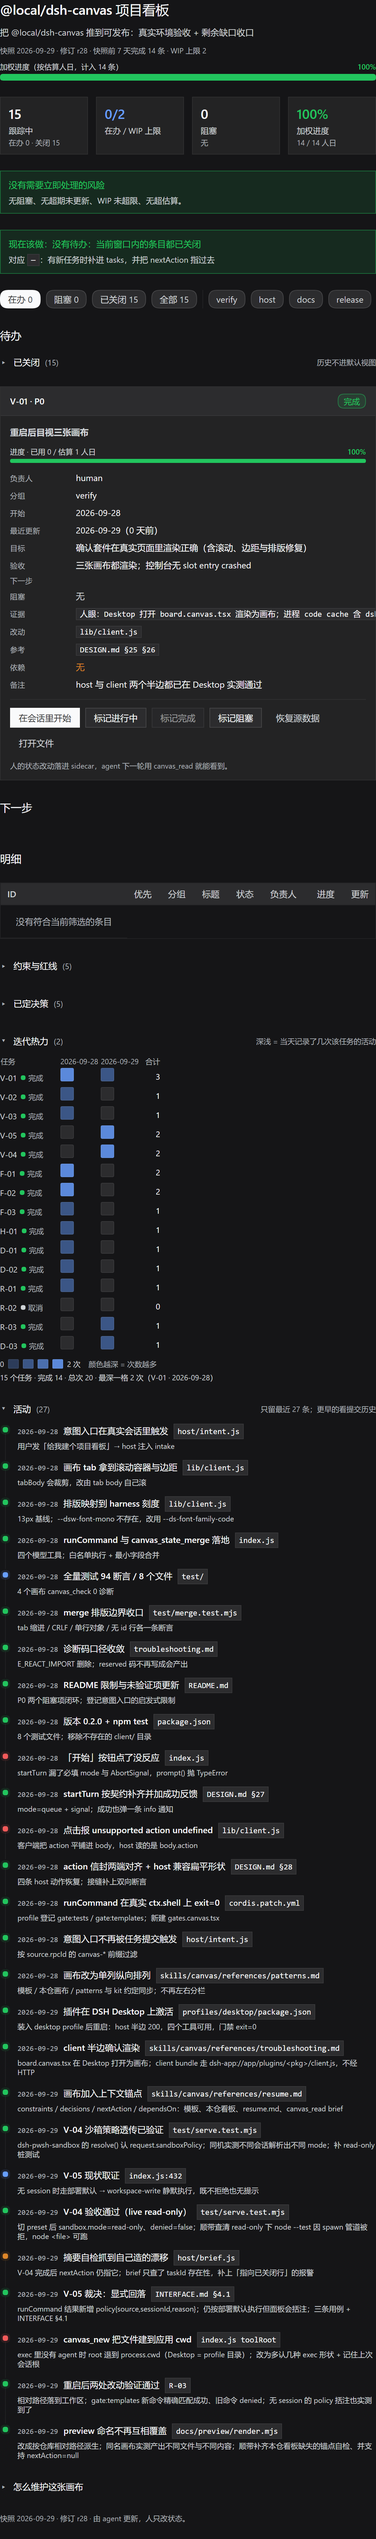
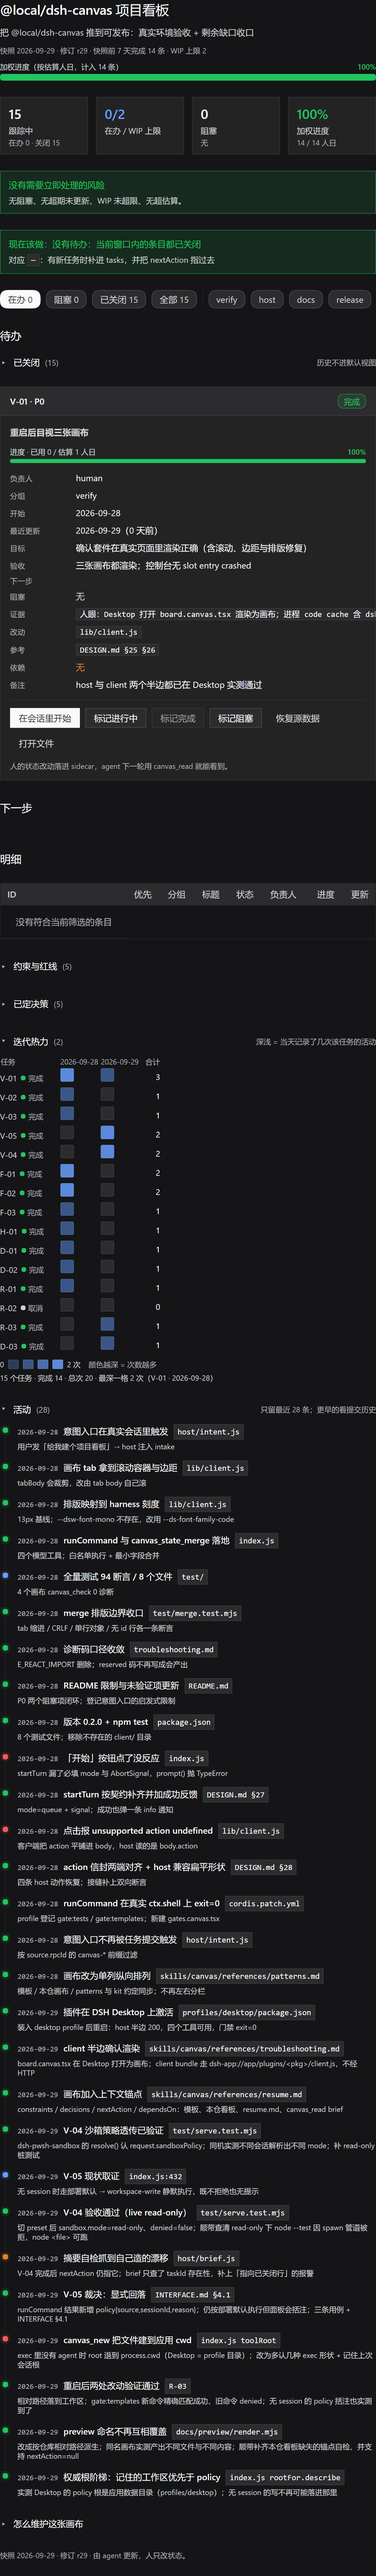
fix(host): 权威根阶梯里，记住的工作区优先于 policy 根
现场复核发现：Desktop 上 /canvas/api（无 session）解析出的根是
C:\Users\85332\.dsh\profiles\desktop —— ctx.sandboxPolicy.workspaceRoot 就是**应用数据目录**，
而它在阶梯里排在"记住的上次会话根"之前，那个真工作区永远轮不到。

- describe(): config → session → **memory** → policy → cwd（原为 … → policy → memory → cwd）
- test/tools.test.mjs：新增"见过的工作区优先于 policy 根"的断言（原来只断言了无 memory 时 policy 作答）
- INTERFACE §3.1 与 DESIGN §30 的阶梯顺序同步，并写明这样排的理由
- 看板 r29 + a28 记录本次改动

影响：无 session 的写不再可能落进应用数据目录；面板始终带 session，所以对按钮无影响。需重启生效。

diff --git a/index.js b/index.js
@@ -105,15 +105,19 @@ export function makeRootResolver(ctx, config, memory) {
    * The same ladder as `rootFor`, plus which rung answered. Writes need the rung:
    * "cwd" means nobody knows a workspace, and trusting it is how a file once
    * landed in the Desktop app's profile directory.
-   * @returns { root, source } where source is config | session | policy | memory | cwd.
+   * @returns { root, source }, in precedence order: config | session | memory | policy | cwd.
    */
   function describe(sessionId) {
     if (config.workspaceRoot !== null) return { root: config.workspaceRoot, source: "config" };
     const fromSession = sessionRoot(sessionId);
     if (fromSession !== null) return { root: fromSession, source: "session" };
+    // The remembered Session root outranks the policy root on purpose. In the
+    // Desktop app ctx.sandboxPolicy.workspaceRoot is the *application data*
+    // directory (verified: profiles/desktop), so trusting it over a workspace we
+    // have actually seen would point session-less writes at the app's own folder.
+    if (memory !== undefined && memory !== null && typeof memory.lastSessionRoot === "string") return { root: memory.lastSessionRoot, source: "memory" };
     const fromPolicy = policyRoot();
     if (fromPolicy !== null) return { root: fromPolicy, source: "policy" };
-    if (memory !== undefined && memory !== null && typeof memory.lastSessionRoot === "string") return { root: memory.lastSessionRoot, source: "memory" };
     return { root: process.cwd(), source: "cwd" };
   }
   function rootFor(sessionId) { return describe(sessionId).root; }

diff --git a/board.canvas.tsx b/board.canvas.tsx
@@ -29,7 +29,7 @@ type Task = {
 export const DATA = {
   goal: "把 @local/dsh-canvas 推到可发布：真实环境验收 + 剩余缺口收口",
   asOf: "2026-09-29",
-  revision: "r28",
+  revision: "r29",
   wipLimit: 2,
   staleDays: 7,
   lanes: ["verify", "host", "docs", "release"],
@@ -248,6 +248,7 @@ export const DATA = {
     { id: "a25", at: "2026-09-29", title: "canvas_new 把文件建到应用 cwd", tone: "danger", detail: "exec 里没有 agent 时 root 退到 process.cwd（Desktop = profile 目录）；改为多认几种 exec 形状 + 记住上次会话根", ref: "index.js toolRoot" },
     { id: "a26", at: "2026-09-29", taskId: "R-03", title: "重启后两处改动验证通过", tone: "success", detail: "相对路径落到工作区；gate:templates 新命令精确匹配成功、旧命令 denied；无 session 的 policy 括注也实测到了", ref: "R-03" },
     { id: "a27", at: "2026-09-29", taskId: "D-03", title: "preview 命名不再互相覆盖", tone: "success", detail: "改成按仓库相对路径派生；同名画布实测产出不同文件与不同内容；顺带补齐本仓看板缺失的锚点自检、并支持 nextAction=null", ref: "docs/preview/render.mjs" },
+    { id: "a28", at: "2026-09-29", title: "权威根阶梯：记住的工作区优先于 policy", tone: "success", detail: "实测 Desktop 的 policy 根是应用数据目录（profiles/desktop）；无 session 的写不再可能落进那里", ref: "index.js rootFor.describe" },
   ],
 } as const;
 

diff --git a/DESIGN.md b/DESIGN.md
@@ -1362,7 +1362,7 @@ guide: [{ id: "workspace", commandId: "workspace.files", order: 10,
 |---|---|---|
 | 入口 | POST 只接受 `application/json`，否则 403 | `index.js` 入口 + INTERFACE §3.1 |
 | 路径 | **只钉写**、读放开；写越界即拒 | `resolveWritePath`（五处写调用点）；ADR 0001 |
-| 权威根 | config → 本请求 session → policy → 记住的上次会话根；落到 `process.cwd()` 写操作拒绝 | `rootFor.describe()` |
+| 权威根 | config → 本请求 session → **记住的上次会话根** → policy；落到 `process.cwd()` 写操作拒绝 | `rootFor.describe()` |
 | 意图精度 | 创建动词须**治理**到名词（中文 12 / 英文 24 字符窗口）+ 指代既有物的抑制 | `host/intent.js` |
 | 注入 | 985 → 845 字符：只留 7 问 + 指针，质量门槛不再复制（那份拷贝已漂移） | `buildCanvasIntakeGuidance` |
 | 生命周期 | 头部 `hidden: true` 不进 picker；`canvas_new` 剥掉该行 | `discovery.js` + `canvas_new` |
